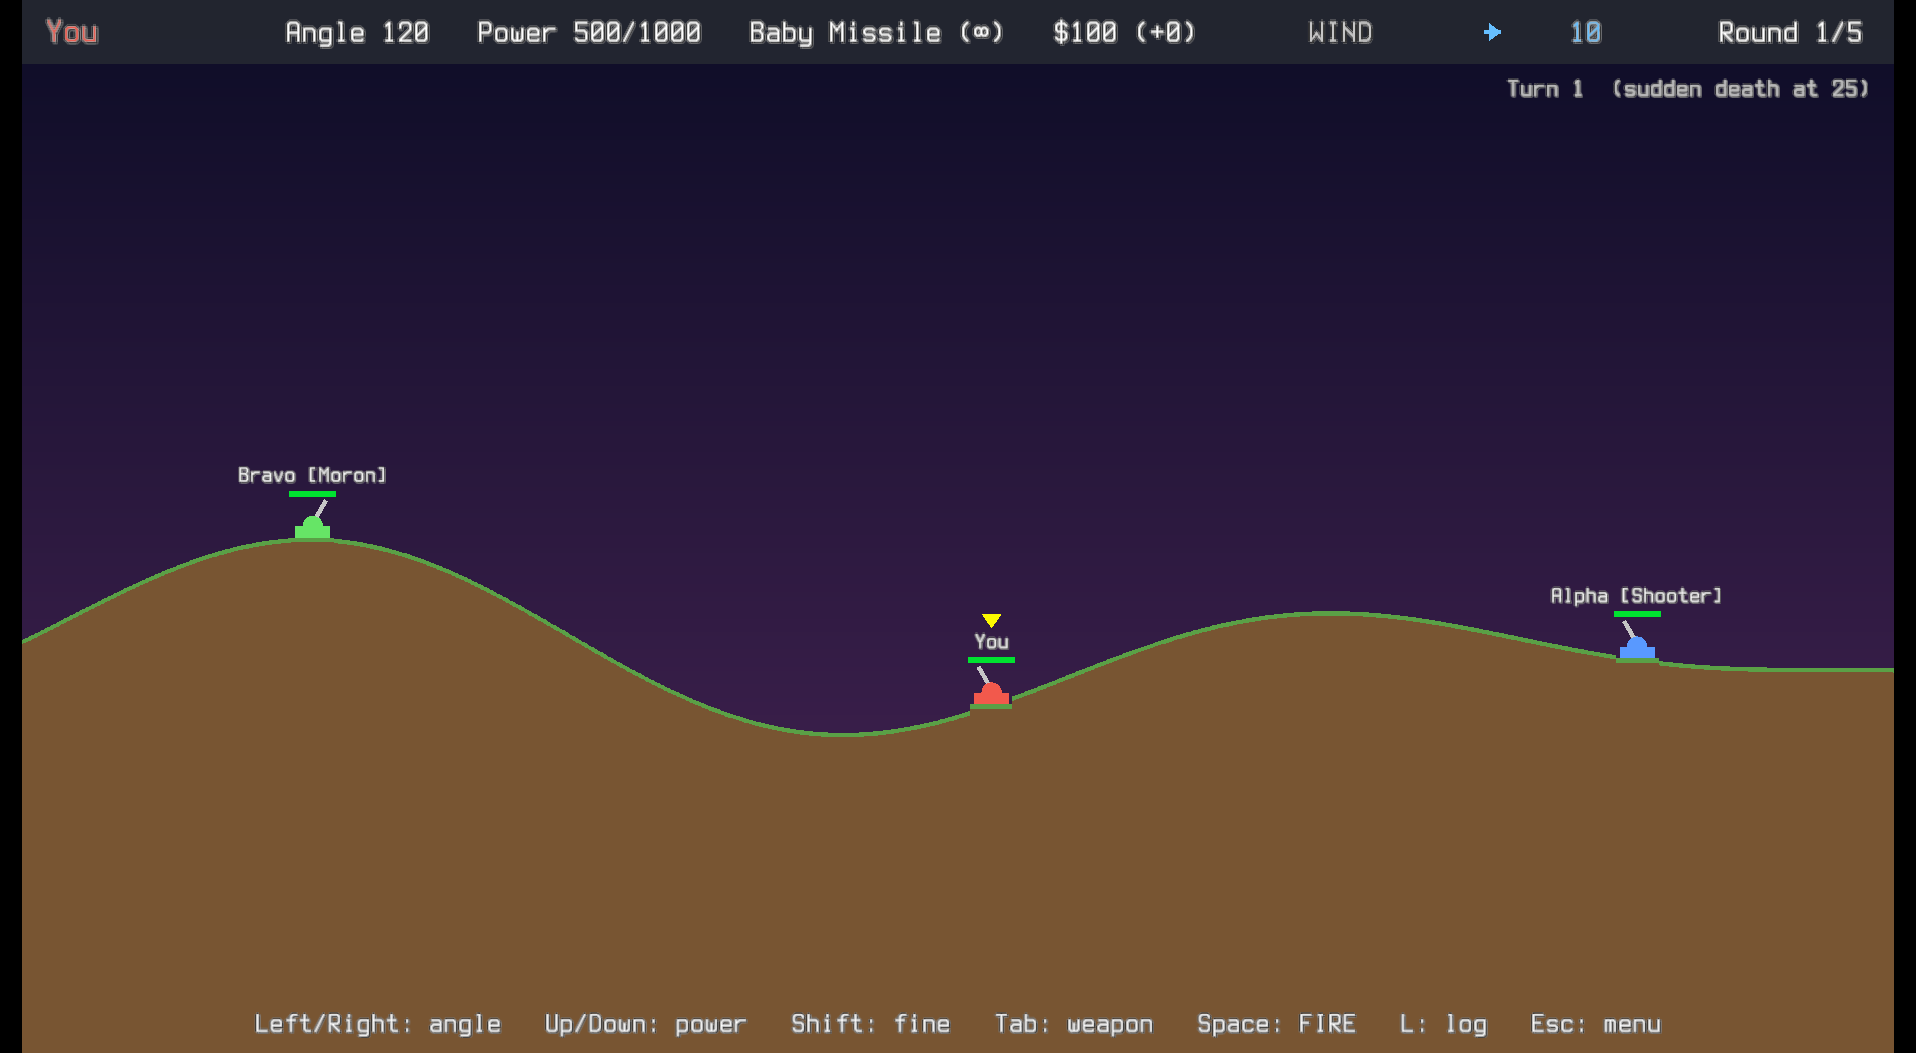
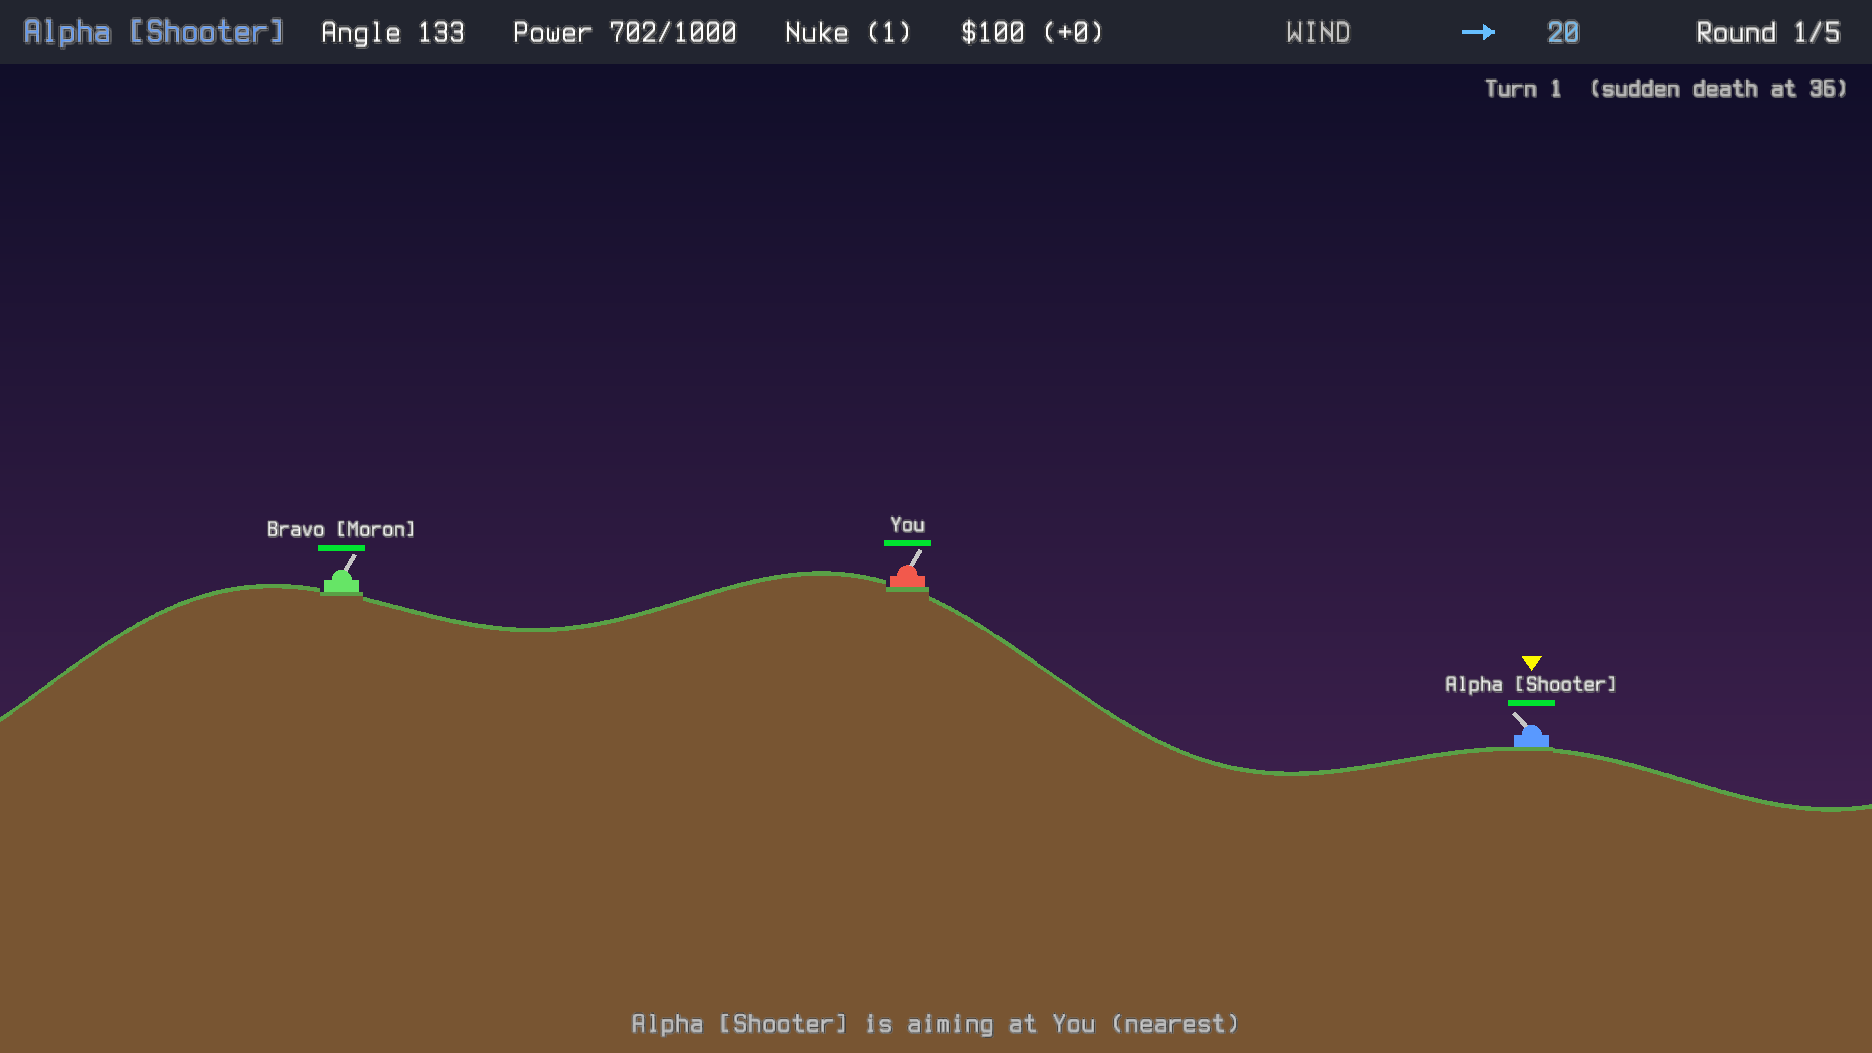
docs: fresh README screenshots and features; --shot keeps only the game area (#37)
- New screenshots: a battle on your turn with the weapon strip
(`--screen arsenal`), main menu, shop with all eleven weapons and four
items, new game setup. All English; the Ukrainian setup shot is gone
(the feature list still names both languages).
- Features: eleven weapons (was five), shields, Mag Deflector and
parachutes, 8-bit sound.
- `--shot` crops to the 16:9 game area, so the result no longer depends
on the window's shape (Sway tiling).
- DEVELOPMENT.md: which screens make the README shots, plain version
label (`SCORCH_BUILD_VERSION`), `oxipng`.

diff --git a/src/main.rs b/src/main.rs
@@ -1120,11 +1120,25 @@ async fn run() {
         if let Some(path) = &shot
             && frame == 90
         {
-            get_screen_data().export_png(path);
+            game_area(&get_screen_data()).export_png(path);
             break;
         }
         next_frame().await;
     }
+}
+
+/// The 16:9 game area of a screenshot, without the bands around it, so shots look the same in any
+/// window.
+fn game_area(screen: &Image) -> Image {
+    let (w, h) = (f32::from(screen.width), f32::from(screen.height));
+    let scale = (w / ui::WIDTH).min(h / ui::HEIGHT);
+    let (gw, gh) = ((ui::WIDTH * scale).floor(), (ui::HEIGHT * scale).floor());
+    screen.sub_image(Rect::new(
+        ((w - gw) / 2.0).floor(),
+        ((h - gh) / 2.0).floor(),
+        gw,
+        gh,
+    ))
 }
 
 /// The guides must name every weapon and setting value: these tests fail when they drift apart.

diff --git a/README.md b/README.md
@@ -12,21 +12,25 @@ Mother of All Games".
 
 *In memory of Joseph Rivkind (1952–2026), who taught me to never stop learning.*
 
-![A battle: three tanks on rolling hills at night](docs/screenshots/battle.png)
+![A battle: three tanks on rolling hills at night, your weapons along the bottom](docs/screenshots/battle.png)
 
 ## Features
 
 - **Destructible terrain:** every explosion digs a crater, tanks fall into them, and wrecks stay where they land.
 - **Wind and gravity** that change how every shot flies, plus four terrain types (or a random one), four kinds of walls
   and three skies.
-- **Five weapons**, from the free Baby Missile to the Nuke and the MIRV, which splits into five warheads. The Dirt Bomb
-  buries your enemies.
+- **Eleven weapons**, from the free Baby Missile to the Nuke: the MIRV splits into five warheads, the Roller rolls
+  downhill into the next dip, the Leapfrog hops on for three blasts, Napalm's burning fuel runs downhill, the Dirt Bomb
+  buries your enemies and the Digger sinks the ground under them.
+- **Shields and parachutes:** a Shield or Heavy Shield soaks up damage, the Mag Deflector pushes shells away, and a
+  parachute saves you from a long fall.
 - **Chain reactions:** a destroyed tank explodes, and the ammo it carries makes the blast bigger.
 - **Bots that learn to aim like people do:** they miss at first, then close in shot by shot. They take revenge, pick on
   the weak or go after the leader. Three skills, four difficulties, or design your own bot.
 - **A shop between rounds**, with catch-up rules so one bad round doesn't decide the game.
 - **Hotseat:** two players at one keyboard.
 - **Battle log** of every shot, hit and kill, and why each bot picked its target.
+- **8-bit sound effects**, made by the game itself, with a volume setting.
 - **Saves automatically:** close the window any time and continue later.
 - **Updates itself** if you allow it: signed updates from this page, installed with one click.
 - **Languages:** English and Ukrainian.
@@ -35,7 +39,7 @@ Mother of All Games".
 | | |
 |---|---|
 | ![Main menu](docs/screenshots/menu.png) | ![Shop and inventory between rounds](docs/screenshots/shop.png) |
-| ![New game setup in Ukrainian](docs/screenshots/setup-uk.png) | |
+| ![New game setup](docs/screenshots/setup.png) | |
 
 ## Getting started
 

diff --git a/docs/DEVELOPMENT.md b/docs/DEVELOPMENT.md
@@ -178,8 +178,11 @@ The feed keeps the last 6 events for 8 seconds; the full log shows the last 18 l
 
 ## Screenshots
 
-The README's screenshots in `docs/screenshots/` come from `--screen <name> --shot <file>` (see above); regenerate them
-when screens change.
+The README's screenshots in `docs/screenshots/` come from `--screen <name> --shot <file>` (see above), in English:
+`arsenal` (saved as `battle.png`), `menu`, `shop` and `setup`. A shot holds only the 16:9 game area, whatever the
+window's shape. Build with `SCORCH_BUILD_VERSION=<release>` so the corner shows a plain version (then use a profile with
+`"check_updates": false`, or the menu asks about updates), regenerate them when screens change, and shrink them with
+`oxipng -o 4 --strip safe`.
 
 ## Font
 
